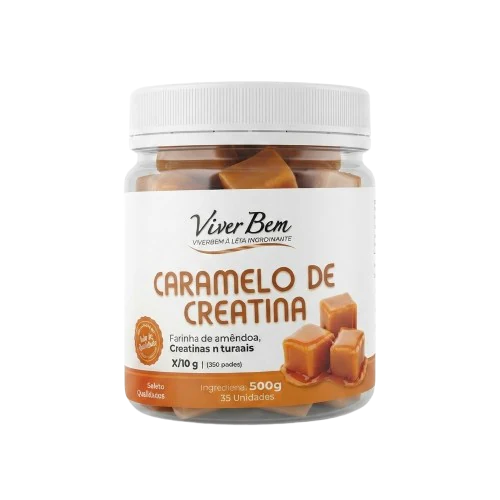
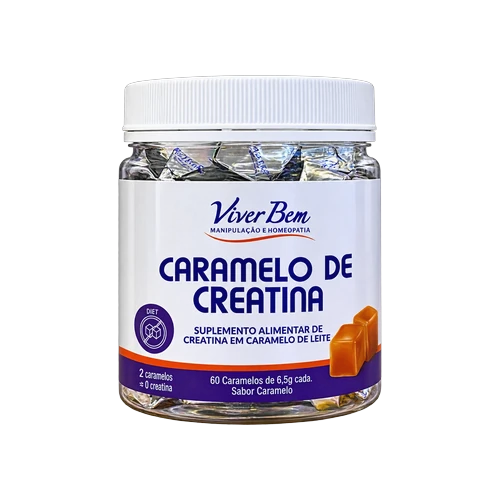
Foto original do Caramelo, seletor de quantidade e compre junto no carrinho (adendo 141)
- caramelo-creatina.webp: a foto original da farmácia
- seletor de quantidade mais justo e refinado, igual no carrinho
- compre junto logo abaixo da compra e "Combina com o seu pedido" no carrinho

Changed region(s): [[0.21, 0.15, 0.78, 0.87]]

diff --git a/src/components/site/CarrinhoDrawer.tsx b/src/components/site/CarrinhoDrawer.tsx
@@ -45,6 +45,7 @@ import { linkWhatsAppPedido, gerarCodigoPedido } from "@/lib/whatsapp";
 import { AnexoReceita, copiarImagem, podeCompartilharArquivo } from "./AnexoReceita";
 import { UNIDADES, ENTREGA_RETIRADA, ENTREGA_DELIVERY } from "@/lib/tipos";
 import { IconeCaixa } from "./IconeCaixa";
+import { SugestoesCarrinho, type ItemSugestao } from "./SugestoesCarrinho";
 import { FotoProduto } from "./FotoProduto";
 import { IconeReceita } from "./BotaoEnviarReceita";
 import { IconeCarrinho, IconeFeito, IconeWhatsApp } from "./icones";
@@ -106,7 +107,7 @@ function IconeChevron() {
 const classeBotaoCabecalho =
   "shrink-0 w-10 h-10 rounded-full bg-gelo text-navy hover:bg-fio flex items-center justify-center transition active:scale-90";
 
-export function CarrinhoDrawer() {
+export function CarrinhoDrawer({ sugestoes = [] }: { sugestoes?: ItemSugestao[] }) {
   const {
     itens,
     totalItens,
@@ -740,31 +741,40 @@ export function CarrinhoDrawer() {
                           ) : (
                             <span />
                           )}
-                          <div className="flex items-center bg-gelo rounded-full p-0.5 gap-0.5">
+                          {/* 14/11/2026: o mesmo modelo do seletor da página do produto */}
+                          <div className="flex items-center gap-0.5 rounded-full bg-gelo p-[3px] ring-1 ring-inset ring-fio/70">
                             <button
                               type="button"
                               onClick={() => mudarQuantidade(item.produtoId, item.dosagem, -1)}
                               aria-label="Diminuir"
-                              className="w-8 h-8 rounded-full bg-white text-navy text-base flex items-center justify-center active:scale-90 transition hover:bg-fio shadow-sm"
+                              className="flex size-8 items-center justify-center rounded-full bg-white text-navy shadow-[0_2px_6px_-2px_rgba(13,35,64,0.25)] ring-1 ring-inset ring-fio transition active:scale-90 hover:ring-navy/25"
                             >
-                              −
+                              <svg width="14" height="14" viewBox="0 0 24 24" fill="none" aria-hidden="true">
+                                <path d="M6 12h12" stroke="currentColor" strokeWidth="2.4" strokeLinecap="round" />
+                              </svg>
                             </button>
-                            <span className="text-sm font-semibold text-navy w-7 text-center tabular-nums">
+                            <span key={item.quantidade} className="animar-surgir w-7 text-center text-[0.95rem] font-semibold text-navy tabular-nums">
                               {item.quantidade}
                             </span>
                             <button
                               type="button"
                               onClick={() => mudarQuantidade(item.produtoId, item.dosagem, 1)}
                               aria-label="Aumentar"
-                              className="w-8 h-8 rounded-full bg-navy text-white text-base flex items-center justify-center active:scale-90 transition hover:bg-tinta"
+                              className="flex size-8 items-center justify-center rounded-full bg-navy text-white shadow-[0_4px_10px_-4px_rgba(13,35,64,0.7)] transition active:scale-90 hover:bg-tinta"
                             >
-                              +
+                              <svg width="14" height="14" viewBox="0 0 24 24" fill="none" aria-hidden="true">
+                                <path d="M12 6v12M6 12h12" stroke="currentColor" strokeWidth="2.4" strokeLinecap="round" />
+                              </svg>
                             </button>
                           </div>
                         </div>
                       </div>
                     </div>
                   ))}
+
+                  {/* "Combina com o seu pedido" (14/11/2026): o compre junto
+                      dentro do carrinho, logo abaixo dos produtos */}
+                  {temProdutos && <SugestoesCarrinho catalogo={sugestoes} />}
 
                   {/* Nada escolhido ainda */}
                   {!temAlgo && (

diff --git a/src/components/site/SugestoesCarrinho.tsx b/src/components/site/SugestoesCarrinho.tsx
@@ -1,0 +1,68 @@
+"use client";
+// "Combina com o seu pedido" (14/11/2026, "quero o compre junto melhor
+// posicionado, talvez no carrinho"): dentro do carrinho, logo abaixo dos
+// itens, até dois produtos com foto real das mesmas linhas do que já
+// está no pedido (e, sem par na linha, os primeiros da lista), cada um com o
+// botão de adicionar. Só produtos com foto real; nada que já esteja no
+// carrinho. A lista vem pronta do servidor (layout do site).
+import Link from "next/link";
+import { useMemo } from "react";
+import { asset } from "@/lib/asset";
+import { useCarrinho } from "@/lib/carrinho";
+
+export interface ItemSugestao {
+  id: number;
+  nome: string;
+  slug: string;
+  fotoUrl: string;
+  categoriaId: number | null;
+}
+
+export function SugestoesCarrinho({ catalogo }: { catalogo: ItemSugestao[] }) {
+  const { itens, adicionar } = useCarrinho();
+
+  const sugestoes = useMemo(() => {
+    if (itens.length === 0 || catalogo.length === 0) return [];
+    const noCarrinho = new Set(itens.map((i) => i.produtoId));
+    const linhas = new Set(catalogo.filter((p) => noCarrinho.has(p.id)).map((p) => p.categoriaId));
+    const livres = catalogo.filter((p) => !noCarrinho.has(p.id));
+    const mesmaLinha = livres.filter((p) => linhas.has(p.categoriaId));
+    const resto = livres.filter((p) => !linhas.has(p.categoriaId));
+    return [...mesmaLinha, ...resto].slice(0, 2);
+  }, [itens, catalogo]);
+
+  if (sugestoes.length === 0) return null;
+
+  return (
+    <section aria-labelledby="titulo-sugestoes" className="rounded-[1.35rem] bg-gradient-to-b from-gelo/70 to-white p-3.5 ring-1 ring-inset ring-fio">
+      <h3 id="titulo-sugestoes" className="flex items-center gap-2 px-1 text-[0.82rem] font-semibold text-navy">
+        <span aria-hidden="true" className="size-1.5 rounded-full bg-[image:var(--ouro-degrade)]" />
+        Combina com o seu pedido
+      </h3>
+      <ul className="mt-2.5 flex flex-col gap-2">
+        {sugestoes.map((p) => (
+          <li key={p.id} className="flex items-center gap-3 rounded-2xl bg-white p-2 pr-2.5 ring-1 ring-inset ring-fio/70">
+            <Link href={`/produto/${p.slug}`} className="flex size-12 shrink-0 items-center justify-center overflow-hidden rounded-xl bg-gelo">
+              {/* eslint-disable-next-line @next/next/no-img-element */}
+              <img src={asset(p.fotoUrl)} alt="" width={96} height={96} loading="lazy" decoding="async" className="max-h-full max-w-full object-contain p-1" />
+            </Link>
+            <Link href={`/produto/${p.slug}`} className="min-w-0 flex-1 text-[0.86rem] font-semibold leading-snug text-navy line-clamp-2 hover:text-tinta">
+              {p.nome}
+            </Link>
+            <button
+              type="button"
+              onClick={() => adicionar({ produtoId: p.id, nome: p.nome, dosagem: null, fotoUrl: p.fotoUrl }, 1)}
+              aria-label={`Adicionar ${p.nome} ao pedido`}
+              className="inline-flex h-9 shrink-0 items-center gap-1.5 rounded-full bg-navy pl-2.5 pr-3.5 text-[0.8rem] font-semibold text-white transition hover:bg-tinta active:scale-95"
+            >
+              <svg width="14" height="14" viewBox="0 0 24 24" fill="none" aria-hidden="true">
+                <path d="M12 6v12M6 12h12" stroke="currentColor" strokeWidth="2.6" strokeLinecap="round" />
+              </svg>
+              Adicionar
+            </button>
+          </li>
+        ))}
+      </ul>
+    </section>
+  );
+}

diff --git a/src/components/site/AcoesProduto.tsx b/src/components/site/AcoesProduto.tsx
@@ -69,7 +69,11 @@ export function AcoesProduto({ produto }: { produto: ProdutoDTO }) {
   // 23/10/2026 ("melhore o botão de quantidade", de novo): os dois passos
   // viraram círculos cheios, o "menos" em gelo e o "mais" em navy, com o
   // número maior no meio; a pílula tem a altura do botão do carrinho
-  const classePasso = "flex size-10 items-center justify-center rounded-full transition active:scale-90 disabled:opacity-35 disabled:active:scale-100";
+  // 14/11/2026 ("gostei desse modelo, quero tudo melhorinho"): o mesmo
+  // seletor, mais justo (o "Adicionar" do lado cortava no celular), com o
+  // "menos" num círculo branco de contorno fino, o "mais" em azul-noite com
+  // sombra, o número que entra de leve a cada troca e um fio em volta
+  const classePasso = "flex size-[2.4rem] items-center justify-center rounded-full transition active:scale-90 disabled:opacity-35 disabled:active:scale-100";
 
   // 23/10/2026: a folha navy com halos foi reprovada no dia seguinte ("não
   // gostei desse azul, mais clean"). 24/10/2026: cartão BRANCO e limpo, só
@@ -119,12 +123,12 @@ export function AcoesProduto({ produto }: { produto: ProdutoDTO }) {
         <div
           role="group"
           aria-labelledby="rotulo-quantidade"
-          className="flex h-[3.25rem] shrink-0 items-center gap-0.5 rounded-full bg-gelo px-1.5"
+          className="flex h-[3.25rem] shrink-0 items-center gap-0.5 rounded-full bg-gelo px-[5px] ring-1 ring-inset ring-fio/70"
         >
-          <button type="button" onClick={() => setQuantidade((q) => Math.max(1, q - 1))} disabled={quantidade <= 1} aria-label="Diminuir quantidade" className={`${classePasso} text-navy hover:bg-white`}>
+          <button type="button" onClick={() => setQuantidade((q) => Math.max(1, q - 1))} disabled={quantidade <= 1} aria-label="Diminuir quantidade" className={`${classePasso} bg-white text-navy shadow-[0_2px_6px_-2px_rgba(13,35,64,0.25)] ring-1 ring-inset ring-fio hover:ring-navy/25`}>
             <IconeMenos />
           </button>
-          <output aria-live="polite" className="w-10 text-center text-[1.3rem] font-semibold text-navy tabular-nums">
+          <output key={quantidade} aria-live="polite" className="animar-surgir w-8 text-center text-[1.25rem] font-semibold text-navy tabular-nums">
             {quantidade}
           </output>
           <button
@@ -132,7 +136,7 @@ export function AcoesProduto({ produto }: { produto: ProdutoDTO }) {
             onClick={() => setQuantidade((q) => Math.min(MAXIMO, q + 1))}
             disabled={quantidade >= MAXIMO}
             aria-label="Aumentar quantidade"
-            className={`${classePasso} bg-navy text-white hover:bg-tinta`}
+            className={`${classePasso} bg-navy text-white shadow-[0_6px_14px_-6px_rgba(13,35,64,0.75)] hover:bg-tinta`}
           >
             <IconeMaisQtd />
           </button>
@@ -141,7 +145,7 @@ export function AcoesProduto({ produto }: { produto: ProdutoDTO }) {
         <button
           type="button"
           onClick={adicionarAoCarrinho}
-          className={`botao-carrinho flex-1 min-w-0 !min-h-[3.25rem] !px-4 !text-[1rem] ${adicionado ? "botao-carrinho-feito" : ""}`}
+          className={`botao-carrinho flex-1 min-w-0 !min-h-[3.25rem] !gap-2 !px-3 !text-[1rem] ${adicionado ? "botao-carrinho-feito" : ""}`}
         >
           <span className="sr-only" aria-live="polite">
             {adicionado ? "Produto adicionado ao carrinho" : ""}

diff --git a/src/components/site/produto/CompreJunto.tsx b/src/components/site/produto/CompreJunto.tsx
@@ -13,7 +13,11 @@ import { useCarrinho } from "@/lib/carrinho";
 import { IconeCarrinho, IconeFeito } from "../icones";
 import { FotoProduto } from "../FotoProduto";
 
-export function CompreJunto({ principal, companheiros }: { principal: ProdutoDTO; companheiros: ProdutoDTO[] }) {
+// 14/11/2026 ("o compre junto tem que estar melhor posicionado"): na
+// página do produto ele subiu para a coluna de compra, logo abaixo de
+// "Adicionar" e "Pedir pelo WhatsApp" (compacto: tudo em coluna, sem a
+// divisão lateral); e o carrinho ganhou o "Combina com o seu pedido".
+export function CompreJunto({ principal, companheiros, compacto = false }: { principal: ProdutoDTO; companheiros: ProdutoDTO[]; compacto?: boolean }) {
   const { adicionar } = useCarrinho();
   const [feito, setFeito] = useState(false);
   const todos = [principal, ...companheiros];
@@ -33,7 +37,7 @@ export function CompreJunto({ principal, companheiros }: { principal: ProdutoDTO
       <div className="relative flex flex-wrap items-end justify-between gap-x-6 gap-y-2">
         <div>
           <p className="rotulo-pilula !text-[0.6875rem]">compre junto</p>
-          <h2 id="titulo-compre-junto" className="mt-2 text-[1.2rem] md:text-[1.5rem] font-semibold tracking-[-0.03em] text-navy">
+          <h2 id="titulo-compre-junto" className={`mt-2 font-semibold tracking-[-0.03em] text-navy ${compacto ? "text-[1.1rem] md:text-[1.2rem]" : "text-[1.2rem] md:text-[1.5rem]"}`}>
             Quem pede este, costuma levar <span className="italic">também</span>
           </h2>
         </div>
@@ -42,9 +46,9 @@ export function CompreJunto({ principal, companheiros }: { principal: ProdutoDTO
         </p>
       </div>
 
-      <div className="relative mt-6 flex flex-col gap-5 lg:flex-row lg:items-center lg:gap-7">
+      <div className={`relative flex flex-col gap-5 ${compacto ? "mt-5" : "mt-6 lg:flex-row lg:items-center lg:gap-7"}`}>
         {/* Os três, com o "+" entre eles */}
-        <ul className="mx-auto flex w-full max-w-[26rem] items-stretch justify-center gap-3 pt-2 sm:gap-4 lg:mx-0 lg:max-w-sm lg:flex-none">
+        <ul className={`mx-auto flex w-full max-w-[26rem] items-stretch justify-center gap-3 pt-2 sm:gap-4 ${compacto ? "" : "lg:mx-0 lg:max-w-sm lg:flex-none"}`}>
           {todos.map((p, i) => (
             <Fragment key={p.id}>
               {i > 0 && (
@@ -86,7 +90,7 @@ export function CompreJunto({ principal, companheiros }: { principal: ProdutoDTO
         </ul>
 
         {/* A ação única */}
-        <div className="flex flex-col items-stretch gap-2.5 lg:max-w-sm lg:flex-1 lg:border-l lg:border-fio lg:pl-7">
+        <div className={`flex flex-col items-stretch gap-2.5 ${compacto ? "" : "lg:max-w-sm lg:flex-1 lg:border-l lg:border-fio lg:pl-7"}`}>
           <p className="text-sm leading-snug text-cinza">
             Os {todos.length} vão juntos para o carrinho. O farmacêutico passa o valor de tudo pelo WhatsApp.
           </p>

diff --git a/src/app/(site)/produto/[slug]/page.tsx b/src/app/(site)/produto/[slug]/page.tsx
@@ -437,6 +437,14 @@ export default async function PaginaProduto({ params }: Props) {
             <p className="texto-apoio mt-5 max-w-[34rem]">{produto.descricao}</p>
 
             <AcoesProduto produto={produto} />
+
+            {/* Compre junto, logo abaixo da compra (14/11/2026, "melhor
+                posicionado"; antes ficava numa faixa própria lá embaixo) */}
+            {companheiros.length === 1 && (
+              <div className="mt-5">
+                <CompreJunto principal={produto} companheiros={companheiros} compacto />
+              </div>
+            )}
             <Selos />
 
             {/* Compra segura */}
@@ -473,13 +481,6 @@ export default async function PaginaProduto({ params }: Props) {
           ]}
         />
       </section>
-
-      {/* Compre junto (23/10/2026, estudo da Amazon e do Mercado Livre) */}
-      {companheiros.length === 1 && (
-        <section className="max-w-6xl mx-auto px-5 md:px-8 pb-5 md:pb-6">
-          <CompreJunto principal={produto} companheiros={companheiros} />
-        </section>
-      )}
 
       {/* Mais procurados e o que a pessoa já viu, em faixas que arrastam, embaixo do produto */}
       <section className="max-w-6xl mx-auto px-5 md:px-8 pb-8 md:pb-10">

diff --git a/src/app/(site)/layout.tsx b/src/app/(site)/layout.tsx
@@ -17,9 +17,15 @@ export default async function LayoutSite({ children }: { children: React.ReactNo
   // cabeçalho leva um índice enxuto dos produtos (nome, área, foto, texto)
   const { categorias, produtos } = await obterCatalogo();
   const indice = montarIndiceBusca(produtos);
+  // "Combina com o seu pedido" no carrinho (14/11/2026): os produtos com
+  // foto real (o mesmo critério do "Compre junto" da página do produto), na
+  // ordem da vitrine
+  const sugestoes = produtos
+    .filter((p) => p.fotoUrl && !p.fotoUrl.toLowerCase().endsWith(".svg"))
+    .map((p) => ({ id: p.id, nome: p.nome, slug: p.slug, fotoUrl: p.fotoUrl as string, categoriaId: p.categoriaId ?? null }));
 
   return (
-    <CarrinhoGlobal>
+    <CarrinhoGlobal sugestoes={sugestoes}>
       {/* Para quem navega pelo teclado: pula o cabeçalho inteiro */}
       <a href="#conteudo" className="pular-conteudo">
         Pular para o conteúdo

diff --git a/src/components/site/CarrinhoGlobal.tsx b/src/components/site/CarrinhoGlobal.tsx
@@ -3,12 +3,13 @@
 // as páginas do site. O pedido é finalizado pelo WhatsApp da farmácia.
 import { CarrinhoProvider } from "@/lib/carrinho";
 import { CarrinhoDrawer } from "./CarrinhoDrawer";
+import type { ItemSugestao } from "./SugestoesCarrinho";
 
-export function CarrinhoGlobal({ children }: { children: React.ReactNode }) {
+export function CarrinhoGlobal({ children, sugestoes = [] }: { children: React.ReactNode; sugestoes?: ItemSugestao[] }) {
   return (
     <CarrinhoProvider>
       {children}
-      <CarrinhoDrawer />
+      <CarrinhoDrawer sugestoes={sugestoes} />
     </CarrinhoProvider>
   );
 }

diff --git a/especificacoes/2026-10-06-remodelagem-receita-rotulo-design.md b/especificacoes/2026-10-06-remodelagem-receita-rotulo-design.md
@@ -1,6 +1,23 @@
 # Remodelagem visual "Receita e rótulo" — Manipulação Viver Bem
 
-> **ADENDO 140 (13/11/2026): pedido abre o WhatsApp direto e a foto segue num toque; faixa do topo, vantagens, linhas, Instagram e o cartão da história. IMPLEMENTADO e conferido (375 e 1366, pedido testado de ponta a ponta com o compartilhar simulado); não publicado.**
+> **ADENDO 141 (14/11/2026): foto original do Caramelo de Creatina, seletor de quantidade e o compre junto bem posicionado. IMPLEMENTADO, conferido (375) e PUBLICADO no 82º push.**
+> - CARAMELO: a foto original da farmácia (fundo transparente) entrou no
+>   lugar de public/uploads/caramelo-creatina.webp, no padrão das outras
+>   (500x500, pote centralizado); vale para o catálogo, a página, o
+>   carrinho e a animação da dobra.
+> - QUANTIDADE ("gostei desse modelo, quero tudo melhorinho"): o mesmo
+>   seletor, mais justo (o "Adicionar" cortava no celular), com o "menos"
+>   num círculo branco de contorno fino, o "mais" em azul-noite com sombra,
+>   um fio em volta e o número que entra de leve; o carrinho usa o mesmo
+>   modelo (SVG no lugar dos sinais de texto).
+> - COMPRE JUNTO ("melhor posicionado, talvez no carrinho"): na página do
+>   produto subiu para a coluna de compra, logo abaixo de Adicionar e
+>   WhatsApp (compacto); e o carrinho ganhou "Combina com o seu pedido"
+>   (SugestoesCarrinho): até dois produtos com foto real das mesmas linhas
+>   do pedido, com o botão Adicionar. Todos os 32 produtos estão como
+>   manipulados, por isso o filtro é "foto real" e não "pronta entrega".
+
+> **ADENDO 140 (13/11/2026): pedido abre o WhatsApp direto e a foto segue num toque; faixa do topo, vantagens, linhas, Instagram e o cartão da história. IMPLEMENTADO e conferido (375 e 1366, pedido testado de ponta a ponta com o compartilhar simulado) e PUBLICADO no 81º push.**
 > - PEDIDO NO WHATSAPP ("por que o pedido não vai como mensagem? quero que
 >   abra o meu WhatsApp, igual antes, e já mande a imagem junto"): o
 >   compartilhar do celular (foto + texto) deixava a pessoa escolhendo o
